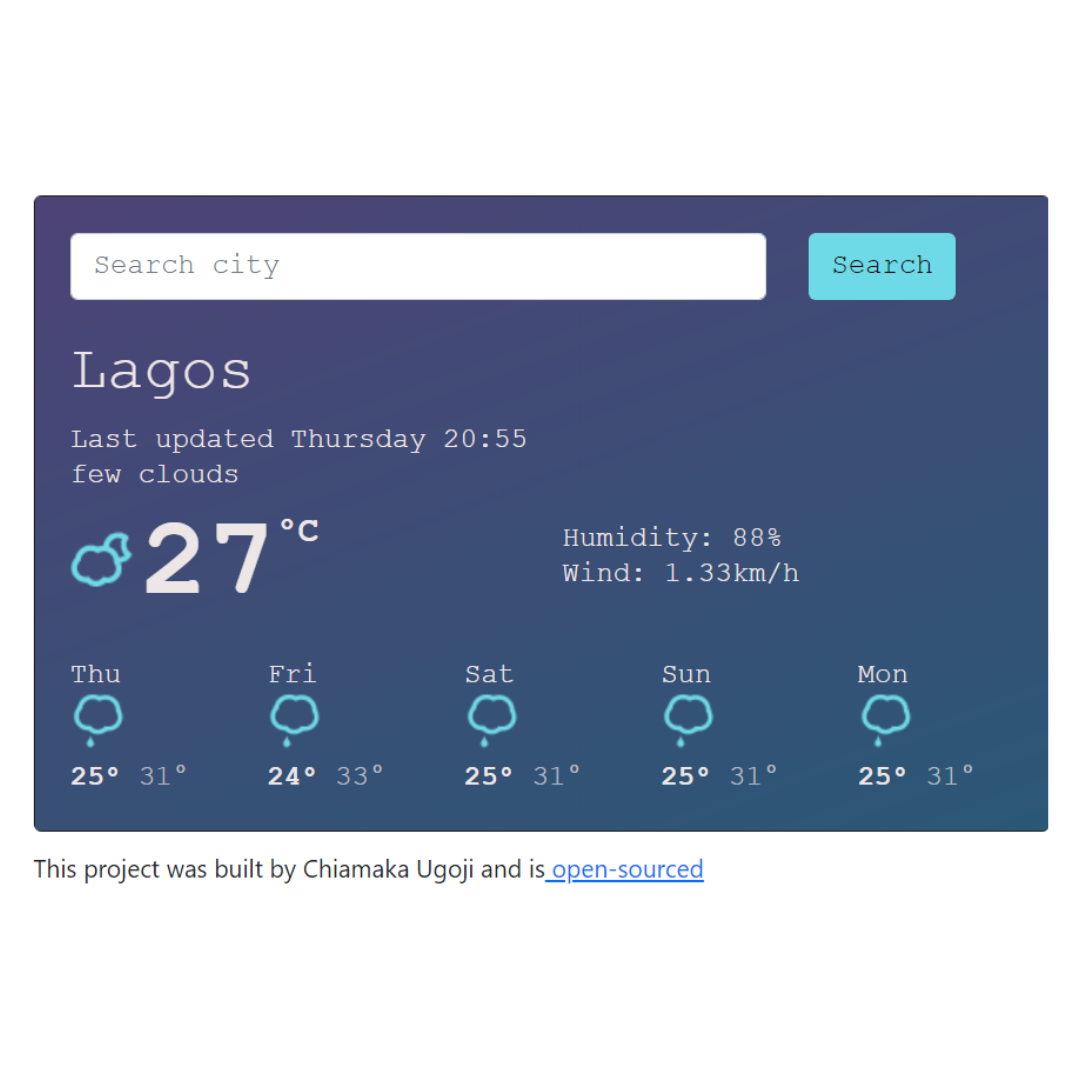
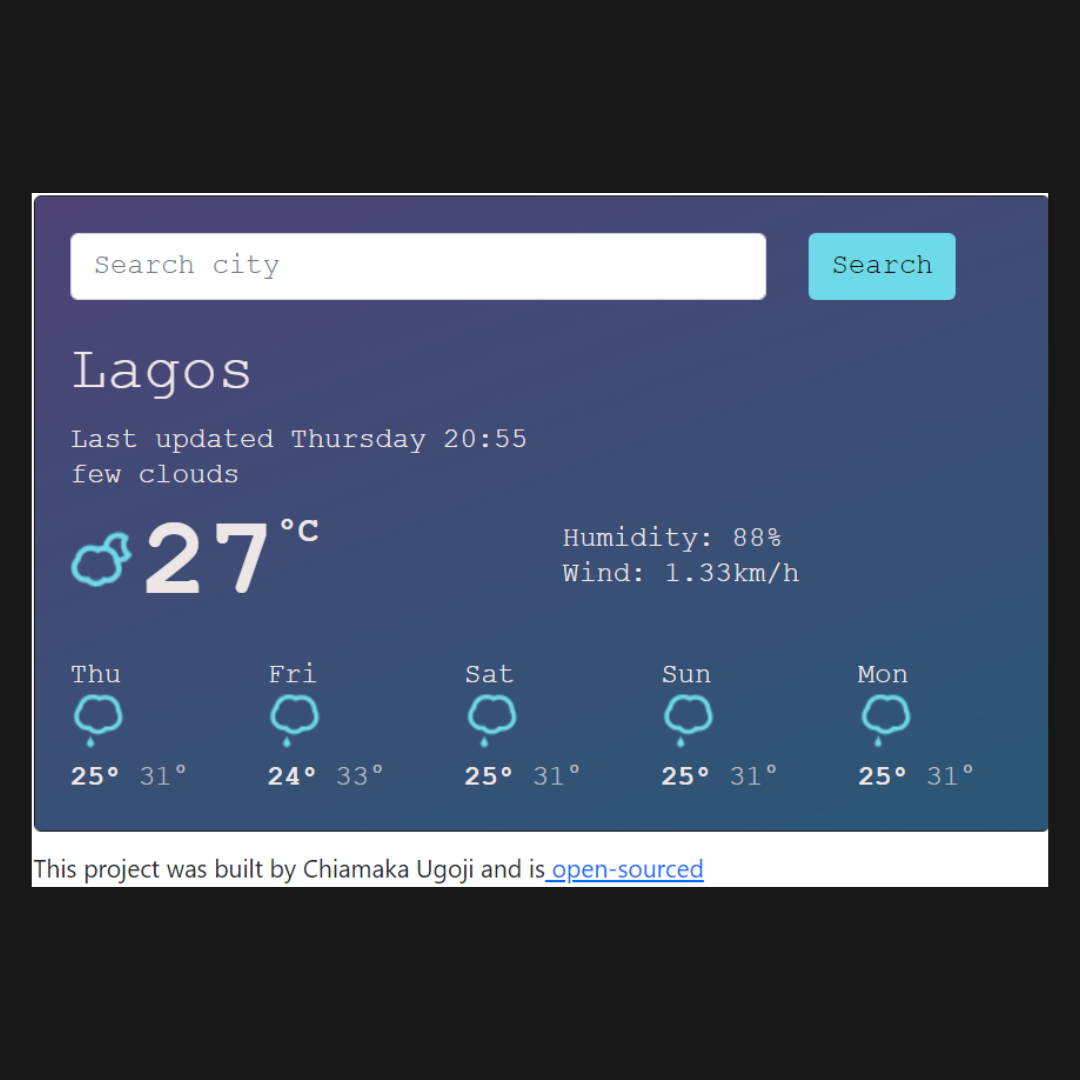
Added project images and changed primary color

diff --git a/project.html b/project.html
@@ -59,9 +59,24 @@
 
       <p class="feature text-center">Some of my best works featured here</p>
       <div class="row">
-        <div class="col-md-6">
+        <div class="col-md-6 text-center">
           <img
             src="images/1.png"
+            class="img-fluid img-projects "
+            alt="weather-app"
+          />
+
+          <p>A weather app built with HTML, Css, Bootstrap and Javascript</p>
+          <a
+            class="btn btn-branding"
+            href="https://cloudweather.netlify.app"
+            target="_blank"
+            >Launch</a
+          >
+        </div>
+        <div class="col-md-6 text-center">
+          <img
+            src="images/2.png"
             class="img-fluid img-projects"
             alt="weather-app"
           />
@@ -74,16 +89,35 @@
             >Launch</a
           >
         </div>
-        <div class="col-md-6">
+        <div class="col-md-6 text-center">
           <img
-            src="Images/product-page.png"
+            src="images/3.png"
             class="img-fluid img-projects"
-            alt="product-page"
+            alt="weather-app"
           />
-          <p>
-            A demo Landing Page for a green tea store built with HTML, CSS and
-            Bootstrap frameworks
-          </p>
+
+          <p>A weather app built with HTML, Css, Bootstrap and Javascript</p>
+          <a
+            class="btn btn-branding"
+            href="https://cloudweather.netlify.app"
+            target="_blank"
+            >Launch</a
+          >
+        </div>
+        <div class="col-md-6 text-center">
+          <img
+            src="images/4.png"
+            class="img-fluid img-projects"
+            alt="weather-app"
+          />
+
+          <p>A weather app built with HTML, Css, Bootstrap and Javascript</p>
+          <a
+            class="btn btn-branding"
+            href="https://cloudweather.netlify.app"
+            target="_blank"
+            >Launch</a
+          >
         </div>
       </div>
       <div class="row work-inquiry">

diff --git a/src/styles.css b/src/styles.css
@@ -1,7 +1,7 @@
 :root {
   --heading-font-family: "STIX Two Text", serif;
   --default-font-family: "Poppins", sans-serif;
-  --primary-color: #f7b603;
+  --primary-color: #6c4d99;
   --secondary-color: #fff;
   --background-color: rgba(235, 235, 235, 0.1);
   --box-shadow: 0 5px 10px rgba(0, 0, 0, 0.3);
